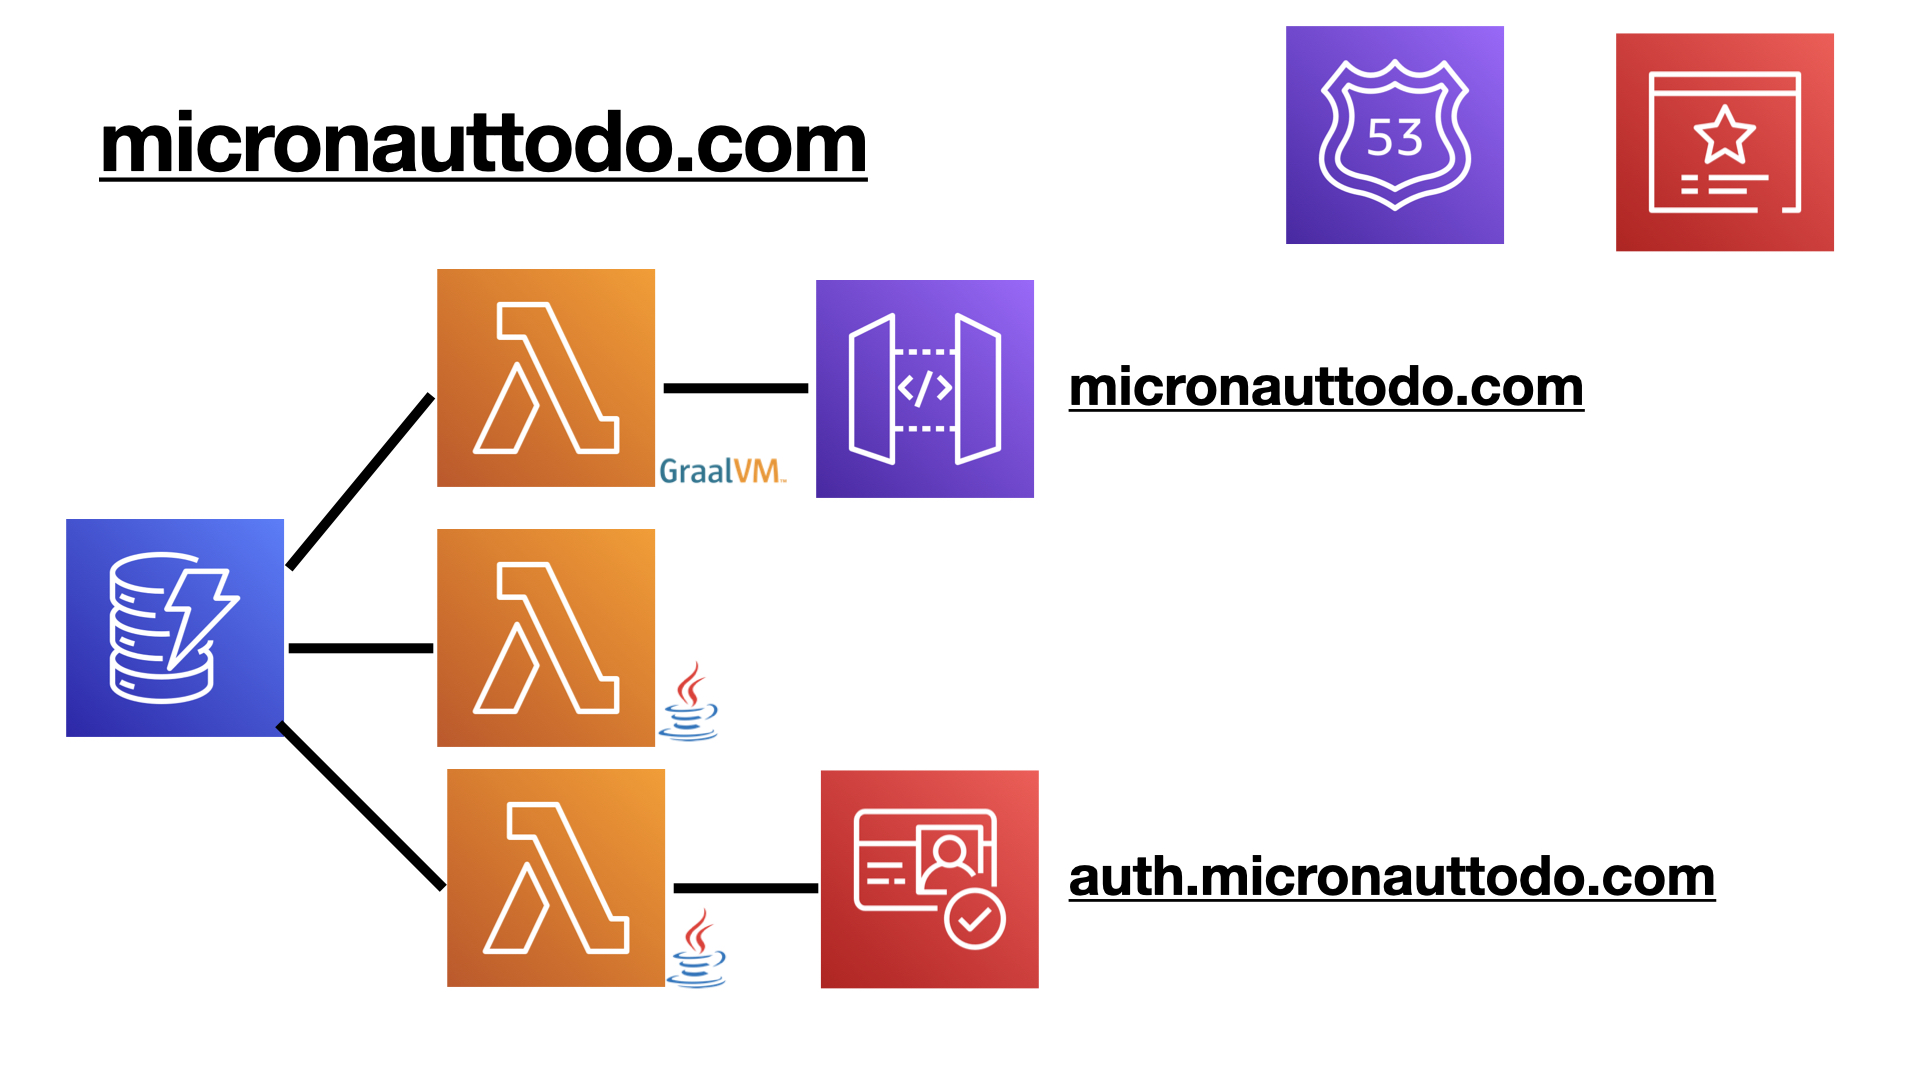
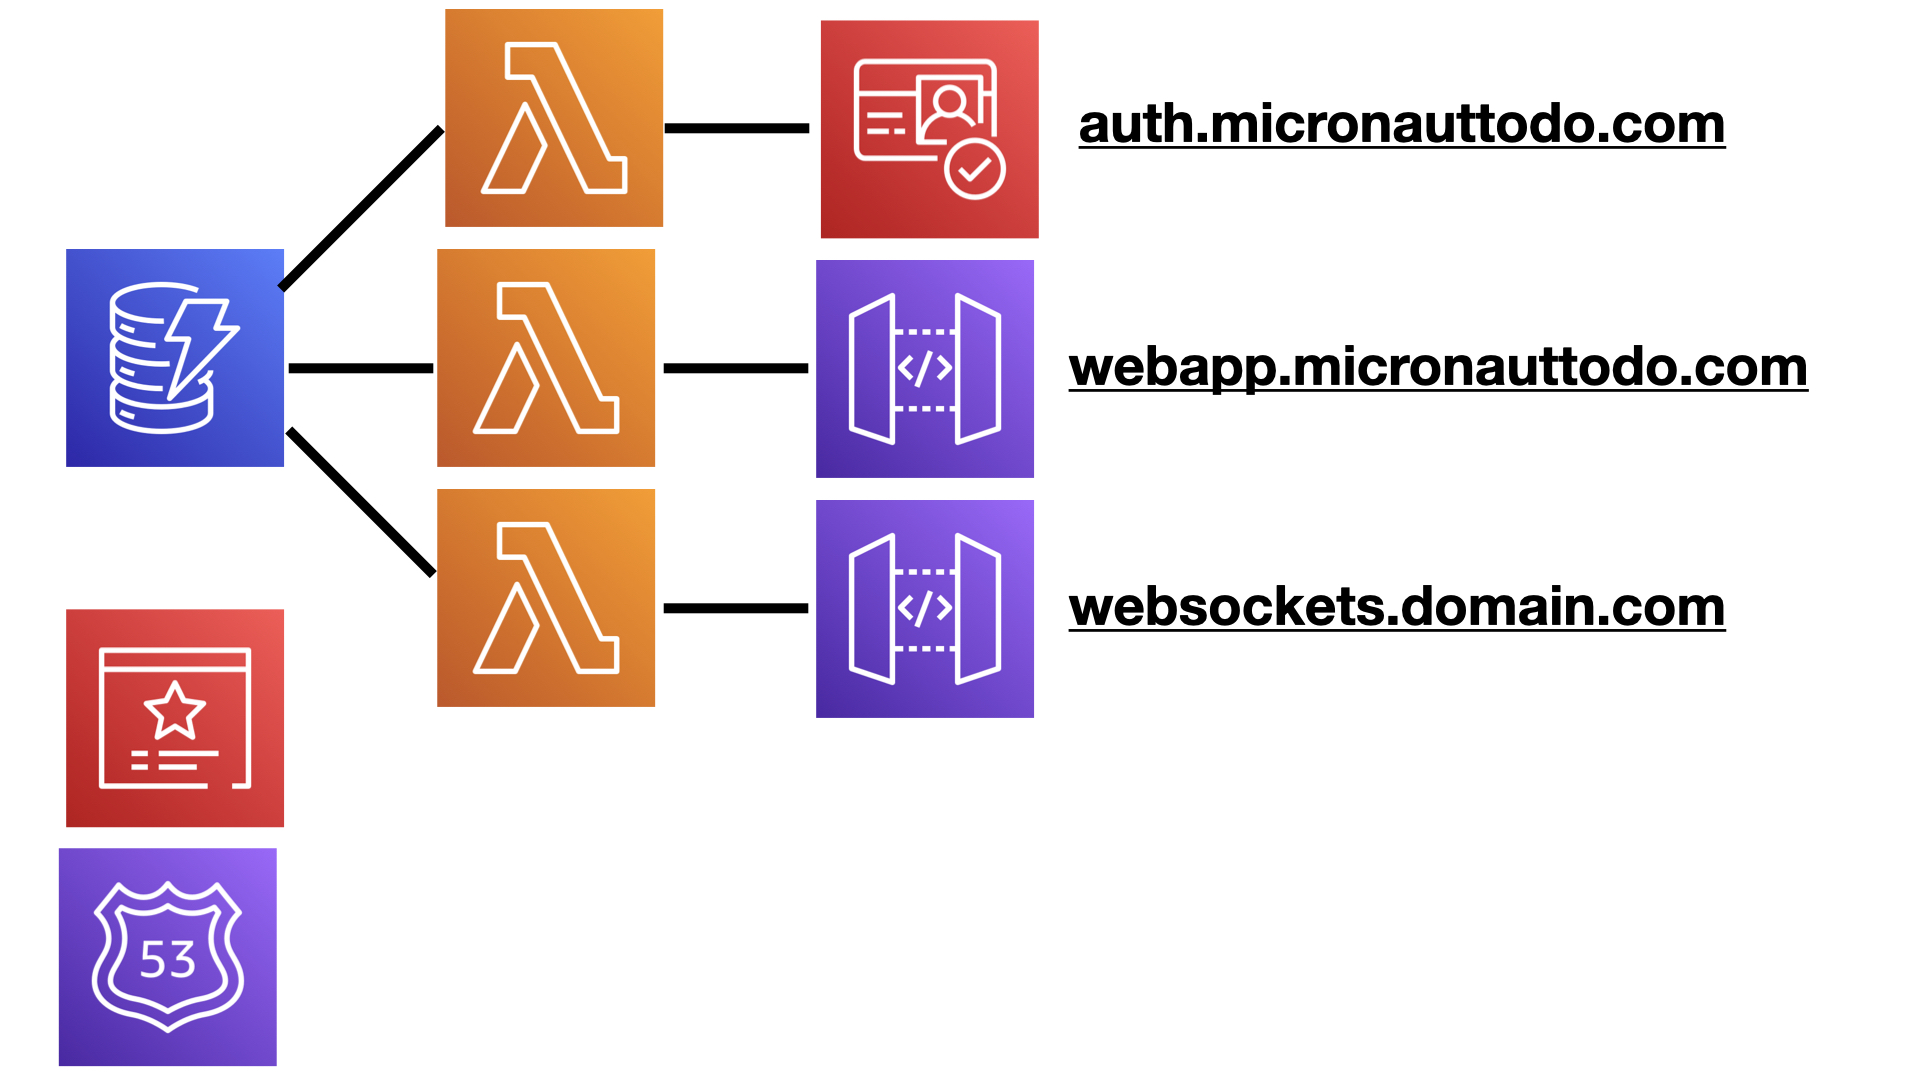
update architecture

Changed region(s): [[0.0312, 0.0, 0.9688, 1.0], [0.5312, 0.3056, 0.9375, 0.3972], [0.3438, 0.3361, 0.4375, 0.3667]]

diff --git a/README.md b/README.md
@@ -18,6 +18,8 @@ One lambda is deployed a [GraalVM](https://www.graalvm.org) native executable us
 
 ![](architecture1.jpeg)
 
+![](architecture2.jpeg)
+
 ## Modules
 
 ![](modules.jpeg)
